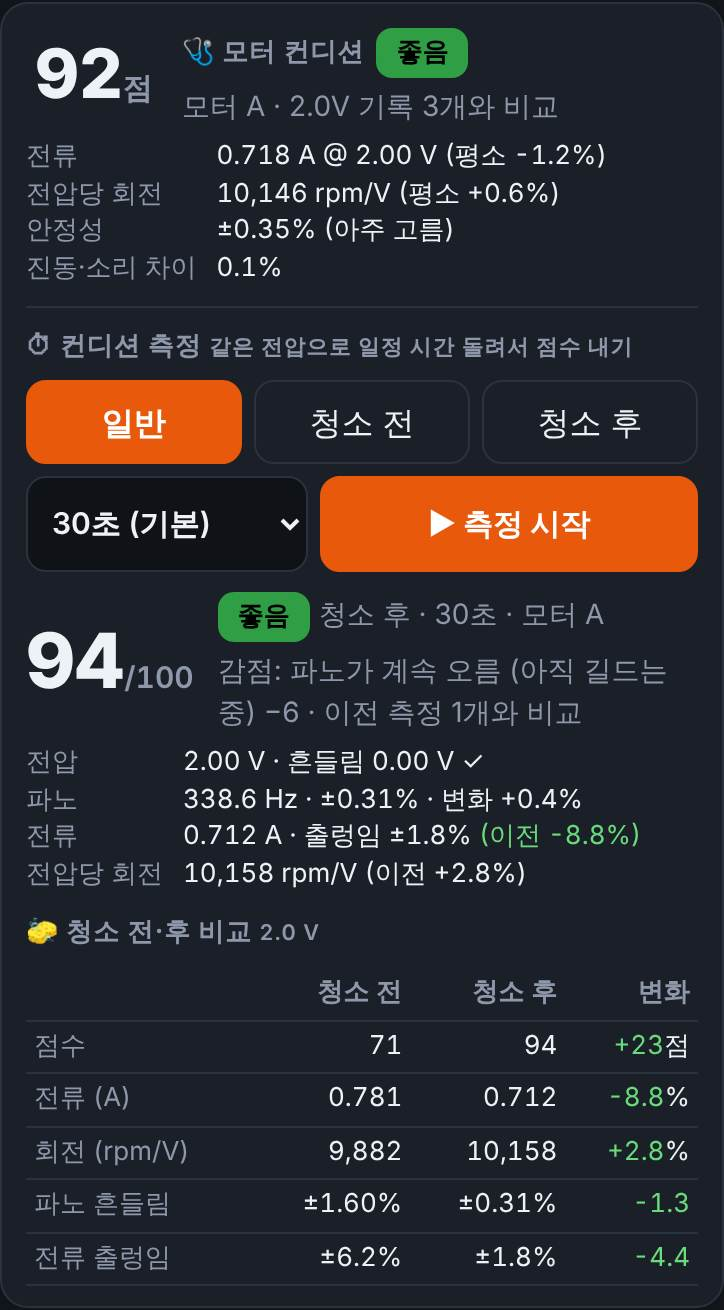
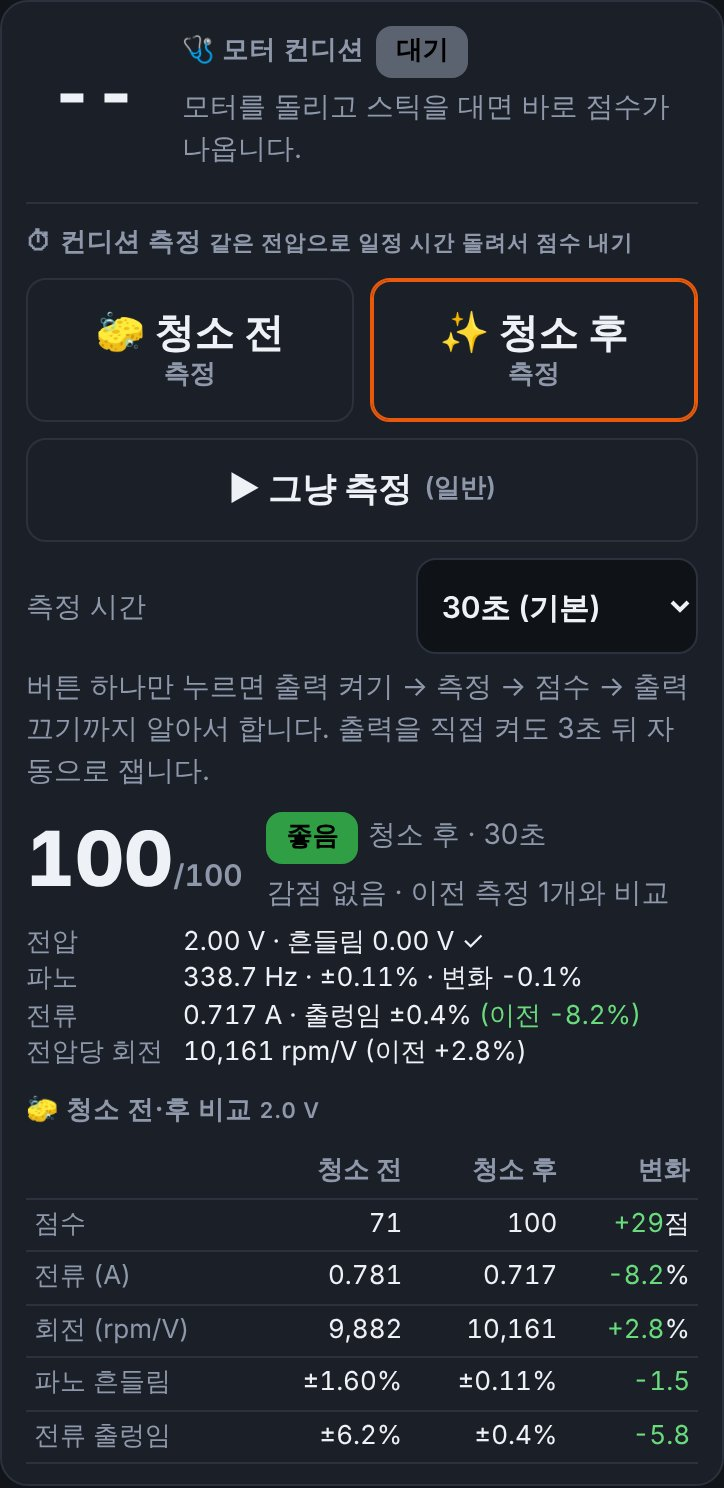
조작 편하게: 버튼 하나로 측정, 청소 전/후 큰 버튼, 결과 음성·진동, 스틱 자동 연결 (앱 2026-11-26j)
Claude-Session: https://claude.ai/code/session_01WDN4fuB9Z5mfdkysRBjdy2

diff --git a/app.html b/app.html
@@ -113,6 +113,12 @@
   .condRows .up { color:#ff8787; } .condRows .dn { color:#69db7c; }
   .ckBox { border-top:1px solid var(--line); margin-top:10px; padding-top:10px; }
   .ckBox .seg button { min-height:40px; }
+  .ckGo { display:grid; grid-template-columns:1fr 1fr; gap:8px; margin-top:8px; }
+  .ckGo button { min-height:72px; display:flex; flex-direction:column; align-items:center; justify-content:center; gap:2px; line-height:1.2; }
+  .ckGo button b { font-size:20px; } .ckGo button small { font-size:13px; color:var(--mute); font-weight:600; }
+  .ckGo .ckWide { grid-column:1 / -1; min-height:52px; flex-direction:row; gap:6px; } .ckGo .ckWide b { font-size:17px; }
+  .ckGo button.sel2 { border-color:var(--acc); box-shadow:inset 0 0 0 1px var(--acc); }
+  .ckGo button.stop { background:var(--red); border-color:var(--red); color:#fff; } .ckGo button.stop small { color:#fff; }
   .ckBar { height:6px; border-radius:3px; background:#232a33; margin-top:6px; overflow:hidden; } .ckBar i { display:block; height:100%; background:var(--acc); }
   .ckRes { display:flex; align-items:center; gap:12px; margin-top:8px; }
   .ckRes .condScore { font-size:38px; white-space:nowrap; flex-shrink:0; min-width:0; }
@@ -535,6 +541,9 @@
     <div class="ttl">앱 설정</div>
     <div class="set-row"><label class="sw"><span><span class="set-name">연결 알림 진동</span><div class="set-def">기본값: 켜짐</div></span><input type="checkbox" id="aVib"></label></div>
     <div class="set-row"><label class="sw"><span><span class="set-name">연결 알림 소리</span><div class="set-def">기본값: 켜짐</div></span><input type="checkbox" id="aSnd"></label></div>
+    <div class="set-row"><label class="sw"><span><span class="set-name">측정 결과 음성 안내</span><div class="set-def">기본값: 켜짐</div><div class="set-help">컨디션 측정이 끝나면 "92점, 좋음"처럼 소리 내어 읽어 줍니다.</div></span><input type="checkbox" id="aSay"></label></div>
+    <div class="set-row"><label class="sw"><span><span class="set-name">측정 결과 진동</span><div class="set-def">기본값: 켜짐</div><div class="set-help">좋음 1번, 보통 2번, 점검 필요·다시 재기 3번 울립니다.</div></span><input type="checkbox" id="aRVib"></label></div>
+    <div class="set-row"><label class="sw"><span><span class="set-name">앱 열면 스틱 자동 연결</span><div class="set-def">기본값: 켜짐</div><div class="set-help">한 번 연결한 스틱이 켜져 있으면 앱을 열 때 바로 붙습니다 (브라우저가 지원할 때). 전원공급기는 늘 자동으로 다시 붙습니다.</div></span><input type="checkbox" id="aAuto"></label></div>
     <div class="set-row"><label class="sw"><span><span class="set-name">앱에서 빨간 숫자 효과</span><div class="set-def">기본값: 켜짐</div></span><input type="checkbox" id="aHot"></label></div>
     <div class="set-row"><label class="sw"><span><span class="set-name">화면 꺼짐 방지</span><div class="set-def">기본값: 꺼짐</div><div class="set-help">측정하는 동안 휴대폰 화면이 꺼지지 않게 합니다.</div></span><input type="checkbox" id="aWake"></label></div>
     <div class="set-row"><label class="sw"><span><span class="set-name">릴레이 연결됨 (역방향)</span><div class="set-def">기본값: 꺼짐</div><div class="set-help">스틱 Grove 포트에 릴레이 보드를 달았을 때만 켜세요. 꺼져 있으면 역방향을 쓰지 않습니다.</div></span><input type="checkbox" id="aRelay"></label></div>
@@ -610,9 +619,9 @@
     <div id="condRows" class="condRows"></div>
     <div class="ckBox">
       <div class="ttl" style="margin:0">⏱ 컨디션 측정 <small style="color:var(--mute);font-weight:600">같은 전압으로 일정 시간 돌려서 점수 내기</small></div>
-      <div class="seg" id="ckTag"><button data-t="0" class="sel2">일반</button><button data-t="1">청소 전</button><button data-t="2">청소 후</button></div>
-      <div class="prow" style="margin-top:6px"><select id="ckDur" aria-label="측정 시간"><option value="15">15초</option><option value="30" selected>30초 (기본)</option><option value="60">60초</option><option value="120">2분</option></select></div>
-      <div class="help" style="margin-top:6px">전원공급기 출력을 켜면 3초 뒤 자동으로 잽니다. 다시 재려면 출력을 껐다 켜세요.</div>
+      <div class="ckGo" id="ckTag"><button data-t="1" class="ckBig"><b>🧽 청소 전</b><small>측정</small></button><button data-t="2" class="ckBig"><b>✨ 청소 후</b><small>측정</small></button><button data-t="0" class="ckWide"><b>▶ 그냥 측정</b><small>(일반)</small></button></div>
+      <div class="prow" style="margin-top:8px;align-items:center"><span class="help" style="flex:1">측정 시간</span><select id="ckDur" aria-label="측정 시간"><option value="15">15초</option><option value="30" selected>30초 (기본)</option><option value="60">60초</option><option value="120">2분</option></select></div>
+      <div id="ckHow" class="help" style="margin-top:6px">버튼 하나만 누르면 출력 켜기 → 측정 → 점수 → 출력 끄기까지 알아서 합니다. 출력을 직접 켜도 3초 뒤 자동으로 잽니다.</div>
       <div id="ckLive" class="help" style="margin-top:6px"></div>
       <div id="ckRes"></div>
       <div id="ckCmp"></div>
@@ -701,7 +710,11 @@ $('autoRec').onchange = () => { try { localStorage.setItem('panotrio-auto', $('a
 
 // ---------------------------------------------------------------- connection notice (vibration, sound, banner)
 let audio = null, toastT = 0;
-function unlockAudio() { try { audio = audio || new (window.AudioContext || window.webkitAudioContext)(); if (audio.state === 'suspended') audio.resume(); } catch (e) {} }
+function unlockAudio() {
+  try { audio = audio || new (window.AudioContext || window.webkitAudioContext)(); if (audio.state === 'suspended') audio.resume(); } catch (e) {}
+  if (!unlockAudio.sp && window.speechSynthesis) { unlockAudio.sp = 1; try { const u = new SpeechSynthesisUtterance(' '); u.volume = 0; speechSynthesis.speak(u); } catch (e) {} }   // iPhone: speech works only after a tap
+}
+document.addEventListener('pointerdown', () => unlockAudio(), { capture: true, once: true });
 function beep(freqs) {
   if (!audio) return;
   let t = audio.currentTime;
@@ -877,6 +890,7 @@ async function openGatt() {
   notify((device.name || '스틱') + ' 연결됨', true);
   $('connectBox').style.display = 'none'; renderHome();
   $('btnSave').disabled = false;
+  try { if (device.id) localStorage.setItem('panocheck-stick', device.id); } catch (e) {}   // for connecting by itself next time
 }
 async function sendTime() {                          // the stick's standby clock uses the phone's local time
   const ch = cmdChar; if (!ch) return;
@@ -887,7 +901,7 @@ async function sendTime() {                          // the stick's standby cloc
 async function onDisconnected() {
   $('conn').textContent = '연결 끊김 - 다시 연결 중…'; $('conn').className = 'conn'; $('conn').style.color = ''; stickBat = null;
   notify('블루투스 연결 끊김', false);
-  cmdChar = null; infoChar = null; otaChar = null; stickVer = ''; fwRender(); stickSet = null; stickLock = null; unlockTried = false; actSentFor = ''; rvkSentFor = ''; stickDir = null; stickRly = null; stickCnd = false; cleanOnStickLost(); $('btnSave').disabled = true; renderSettings(); renderHome();
+  cmdChar = null; infoChar = null; otaChar = null; stickVer = ''; fwRender(); stickSet = null; stickLock = null; unlockTried = false; actSentFor = ''; rvkSentFor = ''; stickDir = null; stickRly = null; stickCnd = false; stickBtnSeq = null; cleanOnStickLost(); $('btnSave').disabled = true; renderSettings(); renderHome();
   if (IOS && document.visibilityState !== 'visible') notify('화면이 꺼지거나 다른 앱으로 가면 아이폰이 블루투스를 끊습니다 · 돌아오면 다시 연결됩니다', false);
   reconnect();
 }
@@ -906,6 +920,31 @@ async function reconnect() {
   } finally { reconnecting = false; }
 }
 document.addEventListener('visibilitychange', () => { if (document.visibilityState === 'visible' && device && !cmdChar) { $('conn').textContent = '다시 연결 중…'; reconnect(); } });
+// App opened: connect by itself to the stick this phone used last time, when the browser allows it
+// (Chrome with getDevices). Waits for the stick to advertise (it may be off), up to 2 minutes.
+async function stickAuto() {
+  if (device || appSet.auto === false || !navigator.bluetooth || !navigator.bluetooth.getDevices) return;
+  let list = [], id = '';
+  try { list = await navigator.bluetooth.getDevices(); } catch (e) { return; }
+  try { id = localStorage.getItem('panocheck-stick') || ''; } catch (e) {}
+  list = list.filter(d => /^(PanoTrio|파노체크)/.test(d.name || '') || d.id === id);
+  const d = list.find(x => x.id === id) || (list.length === 1 ? list[0] : null);
+  if (!d || device) return;
+  let done = false;
+  const go = async () => {
+    if (done || device || cmdChar) return; done = true;
+    device = d; d.addEventListener('gattserverdisconnected', onDisconnected);
+    try { await openGatt(); }
+    catch (e) { if (!cmdChar && device === d) { d.removeEventListener('gattserverdisconnected', onDisconnected); try { d.gatt.disconnect(); } catch (e2) {} device = null; $('conn').textContent = '연결 안 됨'; $('conn').className = 'conn'; } }
+  };
+  if (d.watchAdvertisements) {
+    const ac = new AbortController();
+    d.addEventListener('advertisementreceived', () => { try { ac.abort(); } catch (e) {} go(); }, { once: true });
+    try { await d.watchAdvertisements({ signal: ac.signal }); if (!device) $('conn').textContent = '스틱 찾는 중…'; setTimeout(() => { try { ac.abort(); } catch (e) {} if (!device && !done) $('conn').textContent = '연결 안 됨'; }, 120000); }
+    catch (e) { go(); }
+  } else go();
+}
+setTimeout(stickAuto, 700);
 async function send(kind, val) {
   if (!cmdChar) return;
   if (lockedOut()) { notify('잠긴 스틱이라 바꿀 수 없습니다', false); return; }
@@ -921,7 +960,7 @@ const APPSET_KEY = 'panotrio-appset', MYSET_KEY = 'panotrio-myset';
 const DEFAULTS = { br: 170, vm: 40, wt: 25, hot: 550, mic: 40, dim: 30, off: 10, ps: 1, sb: 1, ck: 1, c12: 0, cb: 0, cbr: 40 };
 const SET_IDS = { br: 1, vm: 2, wt: 3, hot: 4, mic: 5, dim: 6, off: 7, ps: 8, sb: 10, ck: 12, c12: 13, cb: 14, cbr: 15 };
 const SET_NAMES = { br: '화면 밝기', vm: '진동 감도', wt: '측정 대기 시간', hot: '빨간 숫자 기준', mic: '소리 감도', dim: '대기 모드 진입 시간', off: '자동 꺼짐', ps: '대기 중 절전', sb: '대기 모드 화면', ck: '대기 시계', c12: '시계 표시 방식', cb: '시계 표시 조건', cbr: '시계 밝기' };
-let appSet = { vib: true, snd: true, hot: true, wake: false, relay: false };
+let appSet = { vib: true, snd: true, hot: true, wake: false, relay: false, say: true, rvib: true, auto: true };
 try { Object.assign(appSet, JSON.parse(localStorage.getItem(APPSET_KEY) || '{}')); } catch (e) {}
 function saveAppSet() { try { localStorage.setItem(APPSET_KEY, JSON.stringify(appSet)); } catch (e) {} }
 let stickSet = null, hotHz = HOT_HZ, infoChar = null, dragging = false, syncOnConnect = false, saving = false;
@@ -999,7 +1038,7 @@ function renderSettings() {
     : lockedOut() ? '🔒 다른 휴대폰으로 잠겨 있습니다' : stickLock.lck ? '🔒 이 휴대폰으로 잠겨 있습니다' : '잠금 꺼짐 · 누구나 바꿀 수 있음';
   lk.style.color = lockedOut() ? '#ff6b6b' : 'var(--mute)';
   btn.classList.toggle('go', has && d.length > 0);
-  $('aVib').checked = appSet.vib; $('aSnd').checked = appSet.snd; $('aHot').checked = appSet.hot; $('aWake').checked = appSet.wake; $('aRelay').checked = !!appSet.relay; if ($('cRelayOn')) $('cRelayOn').checked = !!appSet.relay;
+  $('aVib').checked = appSet.vib; $('aSnd').checked = appSet.snd; $('aHot').checked = appSet.hot; $('aWake').checked = appSet.wake; $('aSay').checked = appSet.say !== false; $('aRVib').checked = appSet.rvib !== false; $('aAuto').checked = appSet.auto !== false; $('aRelay').checked = !!appSet.relay; if ($('cRelayOn')) $('cRelayOn').checked = !!appSet.relay;
 }
 async function readInfoNow() {                     // read the stick's settings and wait for the answer
   const ch = infoChar; if (!ch) return null;
@@ -1092,8 +1131,8 @@ bindRange('sCbr', v => $('vCbr').textContent = Math.round(v / 255 * 100) + '%', 
 $('btnStickSave').onclick = () => saveToStick(false);
 $('cLock').onchange = () => { sendKey('L', $('cLock').checked ? myKey : 0); };
 $('btnDefaults').onclick = async () => { if (await askConfirm('설정을 기본값으로 바꿀까요? (스틱에 저장을 눌러야 스틱에 들어갑니다)')) { mySet = Object.assign({}, DEFAULTS); saveMySet(); renderSettings(); } };
-for (const [id, key] of [['aVib', 'vib'], ['aSnd', 'snd'], ['aHot', 'hot'], ['aWake', 'wake'], ['aRelay', 'relay']])
-  $(id).onchange = $(id).onclick = () => { appSet[key] = $(id).checked; saveAppSet(); if (key === 'wake') applyWake(); if (key === 'relay') relaySetChanged(); if (key === 'hot' && cur) render(); };
+for (const [id, key] of [['aVib', 'vib'], ['aSnd', 'snd'], ['aHot', 'hot'], ['aWake', 'wake'], ['aRelay', 'relay'], ['aSay', 'say'], ['aRVib', 'rvib'], ['aAuto', 'auto']])
+  $(id).onchange = $(id).onclick = () => { appSet[key] = $(id).checked; saveAppSet(); if (key === 'wake') applyWake(); if (key === 'relay') relaySetChanged(); if (key === 'hot' && cur) render(); if (key === 'say' && appSet.say) ckSay('음성 안내를 켰습니다', -1); };
 let wakeLock = null;
 async function applyWake() {
   try {
@@ -1465,7 +1504,7 @@ showView();
 checkReqHash();
 // App updates: the installed app keeps running in the background, so look for a new version whenever it comes
 // back to the front, and reload once when the new version has taken over (not while the motor is running).
-const APP_BUILD = '2026-11-26i';
+const APP_BUILD = '2026-11-26j';
 if ('serviceWorker' in navigator && window.isSecureContext) {
   const hadCtrl = !!navigator.serviceWorker.controller;
   let reloading = false, pendingReload = false;
@@ -1501,6 +1540,24 @@ function onInfo(dv, whole) {
   if (kv.BAT !== undefined) onBattery(+kv.BAT, kv.USB === '1');
   stickVer = kv.VER || ''; stickOta = kv.OTA === '1'; fwCheck();
   stickCnd = kv.CND === '1' || verNum(stickVer) >= 2004;      // stick can show the condition score (firmware 2.4+)
+  if (kv.BTN !== undefined) {                                  // stick button event (firmware 2.7+): BTN=seq.kind
+    const [sq, k] = kv.BTN.split('.').map(Number);
+    if (stickBtnSeq !== null && sq !== stickBtnSeq) stickButton(k);
+    stickBtnSeq = sq;
+  }
+}
+// Stick buttons while connected (firmware 2.7+): A held 1 s = start / stop measuring, B held 1 s = forward / reverse
+var stickBtnSeq = null;
+function stickButton(k) {
+  if (k === 1) {
+    if (!$('ckTag')) return;
+    if (!dps.link) { notify('스틱 버튼: 전원공급기가 연결되어 있지 않습니다', false); ckSay('전원공급기를 연결하세요', 2); return; }
+    ckGo(ckTag);
+  } else if (k === 2) {
+    if (!relayReady()) { notify('스틱 버튼: 릴레이가 연결되어 있지 않습니다 (설정에서 켜기)', false); return; }
+    if (cl.run || cl.busy) { notify('모터클리닝·길들이기 실행 중에는 방향을 바꿀 수 없습니다', false); return; }
+    psuDir(stickDir === 1 ? 0 : 1);
+  }
 }
 
 // ---------------------------------------------------------------- stick firmware update over Bluetooth (firmware 2.0+)
@@ -2675,10 +2732,11 @@ function ckTick() {
   if (cur && now - cur.t < 1500 && cur.big > 0 && cur.t !== ck.lastHz) { ck.lastHz = cur.t; ck.hz.push(cur.big); }
   if (now - ck.t0 >= ck.dur * 1000) ckFinish(); else ckRender();
 }
-function ckEnd(msg) { if (ck) clearInterval(ck.timer); ck = null; $('ckLive').innerHTML = msg ? '<b style="color:#ffd43b">' + esc(msg) + '</b>' : ''; ckRender(); }
+function ckEnd(msg) { if (ck) clearInterval(ck.timer); ck = null; $('ckLive').innerHTML = msg ? '<b style="color:#ffd43b">' + esc(msg) + '</b>' : ''; ckOneDone(); ckRender(); }
 function ckFinish() {
   const c = ck; clearInterval(c.timer); ck = null;
-  if (c.v.length < 8 || c.hz.length < 6) { $('ckLive').innerHTML = '<b style="color:#ff6b6b">값이 충분히 들어오지 않았습니다 (전압 ' + c.v.length + '개, 파노 ' + c.hz.length + '개). 스틱 위치를 확인하고 다시 해 주세요.</b>'; ckRender(); return; }
+  ckOneDone();                                       // one-press run: output off again
+  if (c.v.length < 8 || c.hz.length < 6) { $('ckLive').innerHTML = '<b style="color:#ff6b6b">값이 충분히 들어오지 않았습니다 (전압 ' + c.v.length + '개, 파노 ' + c.hz.length + '개). 스틱 위치를 확인하고 다시 해 주세요.</b>'; ckSay('값이 부족합니다. 다시 해 주세요', 2); ckRender(); return; }
   // drop the first fifth of pano values (the stick settles after the start)
   // the stick sometimes locks onto a wrong line (2x harmonic at low speed): keep values near the median,
   // and when too many fall outside, call it a measuring problem instead of taking points off the motor
@@ -2714,6 +2772,7 @@ function ckFinish() {
   const g = ckGrade(r);
   beep(r.unstable || g[2] === 2 ? [440, 330] : [880, 1320]);
   notify('컨디션 측정 끝: ' + (r.unstable ? g[0] : r.score + '점 ' + g[0]), !r.unstable && g[2] < 2);
+  ckSay(r.unstable ? g[0] + '. 다시 재 주세요' : r.score + '점, ' + g[0], g[2]);
   $('ckLive').textContent = '';
   recs.unshift(Object.assign({ t: r.t, memo: '⏱ ' + CK_TAGS[r.tag] + ' ' + r.dur + '초', motor: r.motor, mode: cur ? cur.mode : 0, big: +r.hz.toFixed(1), vib: 0, mic: 0, status: '',
     volt: +r.v.toFixed(2), amp: +r.i.toFixed(3), ck: 1 }, r.dir !== null && r.dir !== undefined ? { dir: r.dir } : {}, r.unstable ? (r.measBad ? { condBad: 1, measBad: 1 } : { condBad: 1 }) : { cond: r.score }));
@@ -2759,14 +2818,60 @@ function ckCompare(r) {                               // latest 청소 전 vs th
 }
 function ckRender() {
   if (!$('ckDur')) return;
-  $('ckDur').disabled = !!ck;
-  [...$('ckTag').children].forEach(b => { b.classList.toggle('sel2', +b.dataset.t === ckTag); b.disabled = !!ck; });
+  const busy = !!(ck || ckOne);
+  $('ckDur').disabled = busy;
+  [...$('ckTag').children].forEach(b => {
+    const t = +b.dataset.t, me = t === ckTag, lbl = ['▶ 그냥 측정', '🧽 청소 전', '✨ 청소 후'][t];
+    b.classList.toggle('sel2', me && !busy); b.classList.toggle('stop', me && busy);
+    b.querySelector('b').textContent = me && busy ? '■ 멈추기' : lbl;
+    b.querySelector('small').textContent = me && busy ? CK_TAGS[t] + ' 측정 중' : t ? '측정' : '(일반)';
+    b.disabled = busy && !me;
+  });
   if (ck) {
     const el = (Date.now() - ck.t0) / 1000, left = Math.max(0, Math.ceil(ck.dur - el)), st = dps.st || {};
     $('ckLive').innerHTML = `측정 중… ${left}초 남음 · ${(+st.v || 0).toFixed(2)} V ${(+st.i || 0).toFixed(3)} A · 파노 ${ck.hz.length}개${st.cc ? ' · <b style="color:#ffd43b">CC</b>' : ''}<div class="ckBar"><i style="width:${Math.min(100, el / ck.dur * 100)}%"></i></div>`;
   }
 }
-$('ckTag').onclick = e => { const b = e.target.closest('button'); if (b && !ck) { ckTag = +b.dataset.t; ckRender(); } };
+$('ckTag').onclick = e => { const b = e.target.closest('button'); if (b && !b.disabled) ckGo(+b.dataset.t); };
+// One press: connect what is missing, output on, measure (auto start below), score, output off.
+// The browser shows only one device list per press, so when both the stick and the power supply
+// still need their list, the second press does the rest.
+var ckOne = ckOne || null;                           // { tag, wasOn, t } while a one-press run is going
+async function ckGo(tag) {
+  unlockAudio();
+  if (ck || ckOne) { ckOneStop('멈췄습니다'); return; }
+  if (cl.run || cl.busy) { $('ckLive').innerHTML = '<b style="color:#ff6b6b">모터클리닝·길들이기 실행 중에는 측정할 수 없습니다.</b>'; return; }
+  ckTag = tag; ckRender();
+  const say = h => { $('ckLive').innerHTML = h; };
+  if (!cmdChar) {
+    if (device && reconnecting) { say('스틱에 다시 연결하는 중입니다. 잠시 뒤 다시 누르세요.'); return; }
+    say('① 스틱을 연결합니다. 목록에서 파노체크를 고르세요.'); await connect();
+    if (!cmdChar) { say('<b style="color:#ff6b6b">스틱이 연결되지 않았습니다.</b> 스틱을 켜고 다시 누르세요.'); return; }
+  }
+  if (!dps.link) {
+    say('② 전원공급기를 연결합니다…');
+    try { await dpsConnect(); } catch (e) {}
+    if (!dps.link) { say('<b style="color:#ffd43b">전원공급기가 아직 연결되지 않았습니다.</b> 한 번 더 누르면 전원공급기 목록이 나옵니다 (휴대폰 ↔ DPS 데이터선).'); return; }
+    for (let i = 0; i < 20 && !(dps.st && dps.st.t); i++) await sleep(150);
+  }
+  if (!(dps.st && dps.st.t)) { say('<b style="color:#ff6b6b">전원공급기가 응답하지 않습니다.</b>'); return; }
+  ckOne = { tag, wasOn: !!dps.st.on, t: Date.now() };
+  if (ckOne.wasOn) { ckArm.on = true; ckRearm(); return; }       // already running: just measure now
+  await psuToggle();
+  if (!dps.st.on) { ckOne = null; ckRender(); return; }
+  ckOne.t = Date.now(); ckRender();
+}
+async function ckOneDone() {                          // a one-press run ended: put the output back as it was
+  const o = ckOne; ckOne = null; if (!o) return;
+  if (!o.wasOn && dps.link && dps.st && dps.st.on) { try { await dpsOutput(false); dps.st.on = false; await dpsUnguard(); } catch (e) {} psuRender(); }
+  ckRender();
+}
+function ckOneStop(msg) { ckArm.done = true; ckArm.msg = false; if (ck) ckEnd(msg); else { $('ckLive').innerHTML = '<b style="color:#ffd43b">' + esc(msg) + '</b>'; ckOneDone(); } }
+// Spoken / vibrated result, so the phone can stay on the bench (settings: 결과 음성 안내 / 결과 진동)
+function ckSay(text, grade) {
+  if (appSet.say !== false && window.speechSynthesis) try { const u = new SpeechSynthesisUtterance(text); u.lang = 'ko-KR'; speechSynthesis.cancel(); speechSynthesis.speak(u); } catch (e) {}
+  if (appSet.rvib !== false) setTimeout(() => { try { navigator.vibrate && grade >= 0 && navigator.vibrate(grade === 0 ? [250] : grade === 1 ? [200, 120, 200] : [400, 150, 400, 150, 400]); } catch (e) {} }, 300);
+}
 function ckShowLast() { if (ck) return; const last = ckLoad().find(b => b.motor === curMotor); if (last) ckShow(last); else { $('ckRes').innerHTML = ''; $('ckCmp').innerHTML = ''; } }
 // auto start: once per motor run (output ON). Waits 3 s for the motor to settle and for pano to come in.
 var ckArm = ckArm || { on: false, t: 0, done: false };
@@ -2776,13 +2881,17 @@ function ckAutoTick() {
   if (on && !ckArm.on) { ckArm.t = now; ckArm.done = false; }
   ckArm.on = on;
   if (!on && ckArm.msg && !ck) { ckArm.msg = false; $('ckLive').textContent = ''; }
+  if (!on && ckOne && !ck && !psuBusy) { ckOne = null; ckRender(); }
   if (!on || !ckAutoOn || ck || ckArm.done || psuBusy || cl.run || cl.busy) return;
   ckArm.msg = true;
   if (now - ckArm.t < 3000) { $('ckLive').textContent = '모터가 자리 잡으면 자동으로 측정합니다…'; return; }
-  if (ckWhyNot()) { $('ckLive').textContent = '파노가 들어오면 자동으로 측정합니다 (스틱을 모터에 대 주세요)'; return; }
+  if (ckWhyNot()) {
+    if (ckOne && now - ckArm.t > 20000) { ckOneStop('20초 동안 파노가 안 들어와서 출력을 껐습니다. 스틱을 모터에 대고 다시 누르세요.'); ckSay('파노가 안 들어옵니다', 2); return; }
+    $('ckLive').textContent = '파노가 들어오면 자동으로 측정합니다 (스틱을 모터에 대 주세요)'; return;
+  }
   ckArm.msg = false; ckStart(true);
 }
-function ckRearm() { if (ck && ck.auto) { clearInterval(ck.timer); ck = null; } if (ckArm.on) { ckArm.t = Date.now(); ckArm.done = false; } if (!ck) { ckArm.msg = true; $('ckLive').textContent = '모터가 자리 잡으면 자동으로 측정합니다…'; } ckRender(); }
+function ckRearm() { if (ck && ck.auto) { clearInterval(ck.timer); ck = null; } if (ckOne) ckOne.t = Date.now(); if (ckArm.on) { ckArm.t = Date.now(); ckArm.done = false; } if (!ck) { ckArm.msg = true; $('ckLive').textContent = '모터가 자리 잡으면 자동으로 측정합니다…'; } ckRender(); }
 setInterval(ckAutoTick, 500);
 window.ckReady = true; ckShowLast(); ckRender();
 

diff --git a/manual.html b/manual.html
@@ -96,7 +96,7 @@
     <ol class="steps">
       <li>휴대폰 <b>블루투스</b>와 <b>위치(GPS)</b>를 켭니다. 안드로이드는 위치가 꺼져 있으면 스틱을 못 찾습니다.</li>
       <li>안드로이드는 <b>크롬</b>으로 엽니다. 삼성 인터넷·카톡 안 브라우저는 안 됩니다. 아이폰은 <a href="#s-ios" style="color:var(--blue)">Bluefy</a>.</li>
-      <li>스틱을 켜고 앱의 <b>[스틱 연결 (블루투스)]</b> → <b>파노체크-XXXXXXXX</b>를 고릅니다.</li>
+      <li>스틱을 켜고 앱의 <b>[스틱 연결 (블루투스)]</b> → <b>파노체크-XXXXXXXX</b>를 고릅니다. 한 번 연결해 두면 다음부터는 <b>앱을 열 때 저절로</b> 붙습니다 (브라우저가 지원할 때. 안 붙으면 버튼을 누르세요).</li>
       <li>(선택) 전원공급기는 휴대폰 USB-C ↔ DPS-150 <b>Micro USB</b>(DPS100은 PC COMM 단자) 데이터선으로 잇고, 파노측정 화면의 <b>⚡ [연결]</b>을 누릅니다.</li>
     </ol>
   </section>
@@ -226,10 +226,47 @@
       <li>모터가 돌면 앱이 바로 <b>100점 만점</b> 점수를 냅니다.
         <span class="chip g">85↑ 좋음</span> <span class="chip y">65↑ 보통</span> <span class="chip r">그 아래 점검 필요</span></li>
       <li>전원공급기가 켜져 있으면 <b>전류·전압당 회전</b>까지, 없으면 <b>파노 흔들림</b>만으로 봅니다.</li>
-      <li><b>⏱ 컨디션 측정</b>: <b>일반 / 청소 전 / 청소 후</b>와 시간(15·30·60초·2분)을 먼저 고르고 전원공급기 <b>[출력 켜기]</b>. 3초 뒤 자동으로 재기 시작해서, 같은 전압으로 돌려 정확한 점수를 냅니다. 다시 재려면 출력을 껐다 켜거나 전압을 바꾸세요.</li>
       <li>청소 전·후를 둘 다 재면 <b>🧽 비교 표</b>가 나옵니다 (점수, 전류, 회전, 흔들림).</li>
       <li><span class="chip o">전원 불안정</span> 전압 흔들림·전류 제한(CC)·보호 동작이 있으면 점수를 내지 않습니다. <span class="chip o">측정 불안정</span> 파노가 튀면 스틱을 다시 단단히 물리세요.</li>
     </ul>
+    <h3>⏱ 버튼 하나로 측정</h3>
+    <svg class="dia" viewBox="0 0 360 178" role="img" aria-label="버튼 하나로 측정하는 순서" style="max-width:440px;margin:10px auto 4px">
+      <defs><marker id="ar3" viewBox="0 0 10 10" refX="9" refY="5" markerWidth="6" markerHeight="6" orient="auto"><path d="M0 0 10 5 0 10z" fill="#9aa3b5"/></marker></defs>
+      <rect x="6" y="8" width="106" height="64" rx="12" fill="#e8590c"/>
+      <text x="59" y="36" fill="#fff" font-size="15" font-weight="800" text-anchor="middle">🧽 청소 전</text>
+      <text x="59" y="58" fill="#ffe8cc" font-size="13" text-anchor="middle">한 번 누르기</text>
+      <line x1="114" y1="40" x2="128" y2="40" stroke="#9aa3b5" stroke-width="3" marker-end="url(#ar3)"/>
+      <rect x="130" y="8" width="100" height="64" rx="12" fill="#232a36" stroke="#3a4352"/>
+      <text x="180" y="36" fill="#e8ebf1" font-size="14" font-weight="800" text-anchor="middle">출력 켜기</text>
+      <text x="180" y="58" fill="#9aa3b5" font-size="12" text-anchor="middle">(자동)</text>
+      <line x1="232" y1="40" x2="246" y2="40" stroke="#9aa3b5" stroke-width="3" marker-end="url(#ar3)"/>
+      <rect x="248" y="8" width="106" height="64" rx="12" fill="#232a36" stroke="#3a4352"/>
+      <text x="301" y="36" fill="#e8ebf1" font-size="14" font-weight="800" text-anchor="middle">3초 뒤 측정</text>
+      <text x="301" y="58" fill="#9aa3b5" font-size="12" text-anchor="middle">30초 동안</text>
+      <line x1="301" y1="74" x2="301" y2="96" stroke="#9aa3b5" stroke-width="3" marker-end="url(#ar3)"/>
+      <rect x="130" y="100" width="224" height="70" rx="12" fill="#1f3326" stroke="#40c057" stroke-width="2"/>
+      <text x="242" y="128" fill="#b2f2bb" font-size="16" font-weight="800" text-anchor="middle">"92점, 좋음"</text>
+      <text x="242" y="152" fill="#9aa3b5" font-size="13" text-anchor="middle">음성 · 진동 · 스틱 화면으로 알림</text>
+      <line x1="128" y1="135" x2="114" y2="135" stroke="#9aa3b5" stroke-width="3" marker-end="url(#ar3)"/>
+      <rect x="6" y="100" width="106" height="70" rx="12" fill="#232a36" stroke="#3a4352"/>
+      <text x="59" y="130" fill="#e8ebf1" font-size="14" font-weight="800" text-anchor="middle">출력 끄기</text>
+      <text x="59" y="152" fill="#9aa3b5" font-size="12" text-anchor="middle">(자동)</text>
+    </svg>
+    <ol class="steps">
+      <li>스틱을 모터에 물리고, 파노측정 화면 ⚡ 카드에서 <b>전압</b>을 정해 둡니다 (예: 2.0 V).</li>
+      <li>🩺 카드 아래의 큰 버튼 <b>[🧽 청소 전]</b>, <b>[✨ 청소 후]</b>, <b>[▶ 그냥 측정]</b> 중 하나를 누릅니다.</li>
+      <li>앱이 <b>출력 켜기 → 3초 뒤 측정 → 점수 → 출력 끄기</b>까지 알아서 합니다. 휴대폰을 안 봐도 점수를 <b>소리로 읽어 주고 진동</b>으로 알려 줍니다 (좋음 1번, 보통 2번, 점검 필요 3번).</li>
+      <li>스틱이나 전원공급기가 아직 연결 안 돼 있으면 같은 버튼이 먼저 <b>연결 목록</b>을 띄웁니다. 둘 다 목록을 골라야 하면 한 번 더 누르세요 (브라우저가 한 번에 목록 하나만 허락합니다).</li>
+    </ol>
+    <img class="shot half" src="manual/m-cond-run.jpg" alt="측정 중: 누른 버튼이 빨간 멈추기 버튼으로 바뀜" loading="lazy">
+    <p class="cap">재는 동안 누른 버튼이 <b>■ 멈추기</b>로 바뀝니다. 누르면 바로 멈추고 출력도 끕니다.</p>
+    <ul>
+      <li><b>측정 시간</b>은 15·30(기본)·60초·2분 중에서 고릅니다.</li>
+      <li>출력을 ⚡ 카드에서 <b>직접 켜도</b> 3초 뒤 자동으로 잽니다 (마지막으로 고른 청소 전·후 구분으로). 이때는 끝나도 출력을 끄지 않습니다. 다시 재려면 출력을 껐다 켜거나 전압을 바꾸세요.</li>
+      <li>출력을 켰는데 <b>20초 동안 파노가 안 들어오면</b> 출력을 끄고 알려 줍니다 (스틱이 모터에 안 닿았을 때).</li>
+    </ul>
+    <div class="tip">음성 안내와 진동은 설정 → 앱 설정에서 끌 수 있습니다. 아이폰은 진동이 안 되고, 음성은 앱 화면을 한 번 누른 뒤부터 나옵니다.</div>
+
     <h3>스틱 화면 (펌웨어 2.6)</h3>
     <svg class="dia" viewBox="0 0 380 150" role="img" aria-label="스틱 화면에 점수와 파노가 번갈아 표시" style="max-width:460px;margin:10px auto 4px">
       <rect x="4" y="6" width="150" height="104" rx="12" fill="#000" stroke="#495057" stroke-width="3"/>
@@ -306,7 +343,7 @@
     <ul>
       <li><b>🕒 대기 모드 시계</b>: 쉬는 동안 스틱에 시계만 나옵니다. 시간은 앱에 연결할 때 휴대폰에서 받아 옵니다. 12/24시간, 배터리일 때도 표시, 밝기.</li>
       <li><b>블루투스 잠금</b>: 이 휴대폰에서만 바꿀 수 있게 잠급니다. 풀 땐 스틱 앞(A)·옆(B) 버튼을 함께 3초.</li>
-      <li><b>앱 설정</b>: 연결 알림 진동·소리, 화면 꺼짐 방지, 릴레이 연결됨.</li>
+      <li><b>앱 설정</b>: 연결 알림 진동·소리, <b>측정 결과 음성 안내</b>(기본 켬), <b>측정 결과 진동</b>(기본 켬), <b>앱 열면 스틱 자동 연결</b>(기본 켬), 화면 꺼짐 방지, 릴레이 연결됨.</li>
       <li>헷갈리면 <b>[기본값으로 되돌리기]</b> → <b>[스틱에 저장]</b>.</li>
     </ul>
   </section>

diff --git a/CLAUDE.md b/CLAUDE.md
@@ -24,7 +24,7 @@
 
 ## 3. 현재 버전 (2026-11-25 기준)
 
-- 앱: **2026-11-26i** (26i: 홈에 💬 오류·문의 신고 타일: 앱·펌웨어·스틱 ID·기기 정보를 복사한 뒤 제작자 카톡 프로필(qr.kakao.com/talk/KAoG3jvpyh58RB7NFy4KUi7kl2I-, 사용자 QR에서 읽음)을 엶. 26h: 사용자 요청으로 ▶ 측정 시작 버튼과 자동 측정 체크박스 삭제, 컨디션 측정은 항상 자동(출력 ON 3초 뒤 한 번, 전압·방향 바꾸면 다시), 다시 재려면 출력 껐다 켜기, 설명서도 수정. 26g: 전압 바꿔 자동 측정 취소될 때 "측정 중" 문구가 0.5초 남던 것 수정. 26f 실기 시험 통과(2026-11-26, PC 헤드리스 크롬+실제 DPS-150 COM5+스틱 COM8 파노): 출력 ON 3.8~5.1초 뒤 자동 시작, 2.0 V 96점·2.5 V 100점, 보고서 PC `Documents\motorcleaner\test-2026-11-26f\`. 26f: 컨디션 측정 자동 시작: 전원공급기 출력이 켜지고 3초 뒤 파노가 들어오면 한 번 자동 측정, 측정 중 전압·방향을 바꾸면 새로 시작, 체크박스 "모터가 돌기 시작하면 자동으로 측정"(localStorage `panocheck-ckauto`, 기본 켬)으로 끌 수 있음, ▶ 측정 시작 버튼은 남겨 둠(멈추기·수동 재측정용). 26e: DPS100 미리 지원(실물 미확인, DPS-150과 같은 통신 방식 가정): 첫 연결 목록에 Artery·ST·GD·WCH·CP210x 칩 표시, 고른 장치 VID/PID를 localStorage `dpsDev`에 저장해 자동 재연결, 모델 이름에 DPS100이면 전류 5.0 A·OCP 5.05 A 상한, 화면·설명서 "DPS-150 / DPS100". 26d: 릴레이 설명서. 26c: 아이폰 점검: 아이폰에선 확인·입력 창을 앱 자체 창으로(Bluefy가 confirm/prompt를 못 띄울 수 있음), CSV는 공유 시트→안 되면 복사 창, 입력칸 확대 막기, 노치·홈바 여백, 전원공급기 카드에 "아이폰은 DPS 연결 불가" 안내, BLE 업데이트에서 응답 놓치면 아이폰은 응답 있는 쓰기로 전환. WebKit 엔진 시험은 못 함(다운로드 차단), 크롬+아이폰 화면·가짜 블루투스로 시험. 26b: 홈 📖 설명서 타일 → manual.html: 실제 앱 캡처(manual/*.jpg)와 그림으로 된 설명서, ★작동 기준 포함, 앱 안 텍스트 설명서는 뺌. 캡처는 playwright로 가짜 값 넣어 다시 찍음. 26a: 전류 제한 기본값 1.0→3.0 A: 전원공급기·클리닝·길들이기. 25z: 설정 최소값 정리: 대기 시간 눈금 0초/1.0초를 펌웨어에 맞게 표시, 2.6 미만 스틱이면 저장값을 1.0초로 맞춤, 길들이기 전압 최소 0.3 V) (설정 맨 아래에 표시)
+- 앱: **2026-11-26j** (26j: 조작 편하게: 컨디션 카드에 큰 버튼 [🧽 청소 전] [✨ 청소 후] [▶ 그냥 측정], 누르면 빠진 연결(스틱→DPS, 목록은 한 번에 하나라 필요하면 두 번 누름) → 출력 켜기 → 3초 뒤 자동 측정 → 점수 → 출력 끄기(직접 켠 출력이면 안 끔), 측정 중엔 그 버튼이 ■ 멈추기, 20초 파노 없으면 출력 끔. 결과 음성(speechSynthesis ko-KR "92점, 좋음")·진동(좋음1/보통2/점검3번), 설정 aSay/aRVib. 앱 열면 스틱 자동 연결(getDevices+watchAdvertisements, localStorage `panocheck-stick`, 설정 aAuto). 스틱 버튼 이벤트 수신 준비: INFO `BTN=seq.kind`(1=A 1초 길게: 시작/멈춤, 2=B 1초 길게: 정역), 펌웨어 2.7에서 넣을 예정. 26i: 홈에 💬 오류·문의 신고 타일: 앱·펌웨어·스틱 ID·기기 정보를 복사한 뒤 제작자 카톡 프로필(qr.kakao.com/talk/KAoG3jvpyh58RB7NFy4KUi7kl2I-, 사용자 QR에서 읽음)을 엶. 26h: 사용자 요청으로 ▶ 측정 시작 버튼과 자동 측정 체크박스 삭제, 컨디션 측정은 항상 자동(출력 ON 3초 뒤 한 번, 전압·방향 바꾸면 다시), 다시 재려면 출력 껐다 켜기, 설명서도 수정. 26g: 전압 바꿔 자동 측정 취소될 때 "측정 중" 문구가 0.5초 남던 것 수정. 26f 실기 시험 통과(2026-11-26, PC 헤드리스 크롬+실제 DPS-150 COM5+스틱 COM8 파노): 출력 ON 3.8~5.1초 뒤 자동 시작, 2.0 V 96점·2.5 V 100점, 보고서 PC `Documents\motorcleaner\test-2026-11-26f\`. 26f: 컨디션 측정 자동 시작: 전원공급기 출력이 켜지고 3초 뒤 파노가 들어오면 한 번 자동 측정, 측정 중 전압·방향을 바꾸면 새로 시작, 체크박스 "모터가 돌기 시작하면 자동으로 측정"(localStorage `panocheck-ckauto`, 기본 켬)으로 끌 수 있음, ▶ 측정 시작 버튼은 남겨 둠(멈추기·수동 재측정용). 26e: DPS100 미리 지원(실물 미확인, DPS-150과 같은 통신 방식 가정): 첫 연결 목록에 Artery·ST·GD·WCH·CP210x 칩 표시, 고른 장치 VID/PID를 localStorage `dpsDev`에 저장해 자동 재연결, 모델 이름에 DPS100이면 전류 5.0 A·OCP 5.05 A 상한, 화면·설명서 "DPS-150 / DPS100". 26d: 릴레이 설명서. 26c: 아이폰 점검: 아이폰에선 확인·입력 창을 앱 자체 창으로(Bluefy가 confirm/prompt를 못 띄울 수 있음), CSV는 공유 시트→안 되면 복사 창, 입력칸 확대 막기, 노치·홈바 여백, 전원공급기 카드에 "아이폰은 DPS 연결 불가" 안내, BLE 업데이트에서 응답 놓치면 아이폰은 응답 있는 쓰기로 전환. WebKit 엔진 시험은 못 함(다운로드 차단), 크롬+아이폰 화면·가짜 블루투스로 시험. 26b: 홈 📖 설명서 타일 → manual.html: 실제 앱 캡처(manual/*.jpg)와 그림으로 된 설명서, ★작동 기준 포함, 앱 안 텍스트 설명서는 뺌. 캡처는 playwright로 가짜 값 넣어 다시 찍음. 26a: 전류 제한 기본값 1.0→3.0 A: 전원공급기·클리닝·길들이기. 25z: 설정 최소값 정리: 대기 시간 눈금 0초/1.0초를 펌웨어에 맞게 표시, 2.6 미만 스틱이면 저장값을 1.0초로 맞춤, 길들이기 전압 최소 0.3 V) (설정 맨 아래에 표시)
 - 스틱 펌웨어: **2.6** (2026-11-25: 측정 끝나 HOLD되면 큰 숫자 자리에 점수(PT, 등급 색)와 파노 Hz를 2.5초씩 번갈아 표시, 측정 끝나기 전 10초 안에 받은 점수만 사용, G 결과 우선, HOLD 처음 1초는 파노, 대기 시간(설정 3) 0초 허용, 시리얼 SCORE 등급 점수 명령. install 조각은 2.5와 같은 코어라 2.5 것을 복사, 병합 bin은 2.5 병합본 앞 0x10000 + 2.6 앱).
 - 이전 펌웨어 2.5 (AUTO 범위 아래 끝 200 Hz, 2·3배 고조파 보정, 엉뚱한 선 고정 시 재탐색, 시리얼 파노 0 표시 수정, 시리얼 MODE/RANGE 명령). 2.3·2.4·2.5 파일은 아직 저장소에 남아 있음(삭제는 사용자 확인 후).
 - 사용자의 실제 스틱(파노체크-1DD625E0): **2.6** (2026-11-25 PC에서 USB로 설치, activated=1). 2.6 실측: DPS 2.0 V, 점수 87/64/77과 파노 330~334 Hz 번갈아 표시, 대기 0초 시험 통과(바로 측정, 첫 값 약 3초) 후 2.5초로 복구. G 우선 표시는 블루투스 잠금 때문에 시리얼로 못 함(앱으로 확인 필요).
